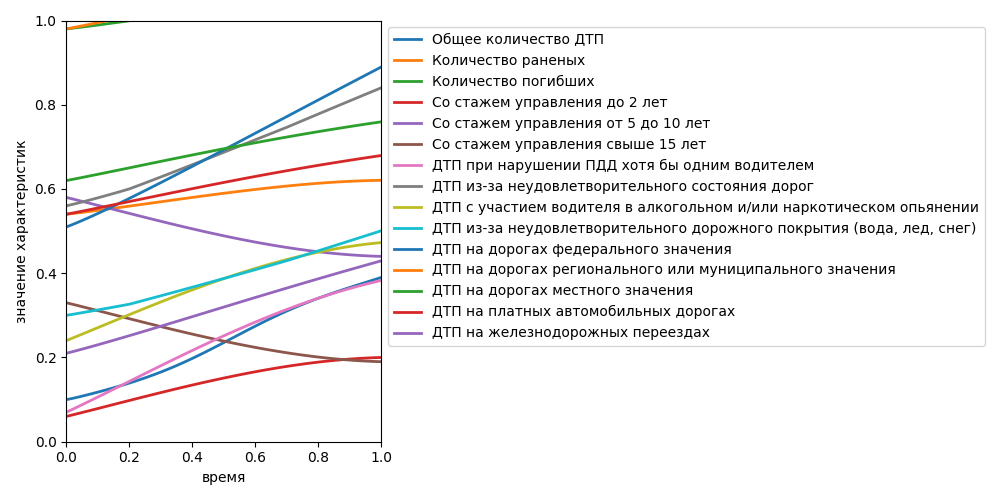
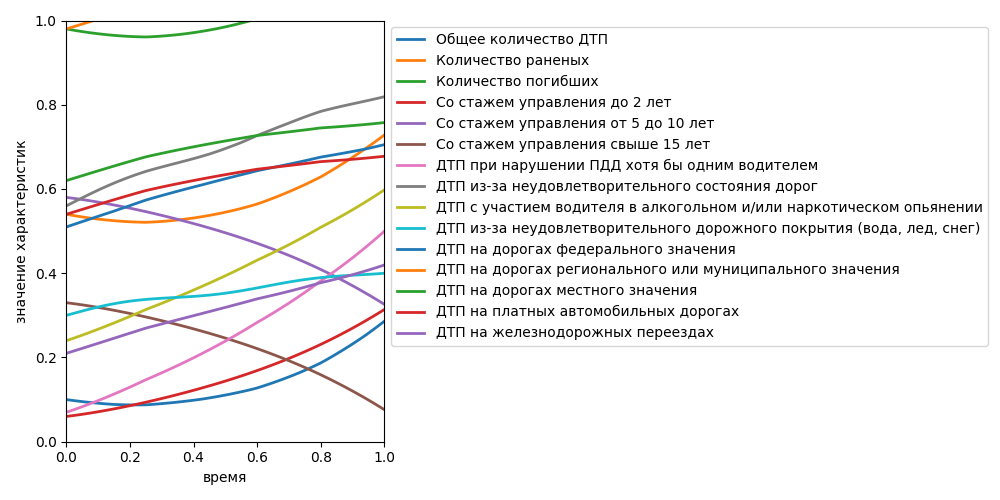
new faks

diff --git a/service.py b/service.py
@@ -169,44 +169,59 @@ def Q_tempalte(t, k):
 
 
 def fak1(t):
-    return -t ** 2 + 0.8
+    return 2 * t + 0.1
 
 
 def fak2(t):
-    return np.cos(1 * t) ** 2 / 2 + 0.1
+    res = np.where(t >= 0, 0.8, t)
+    res = np.where(t > 0.25, 0.6, res)
+    res = np.where(t > 0.6, 0.4, res)
+    res = np.where(t > 0.8, 0.15, res)
 
-
-def fak3(t):
-    res = np.where(t < 0, -1, t)
-    res = np.where(t > 1, -1, res)
-    res = np.where(t <= 1, 0.9, res)
-    res = np.where(t <= 0.7, 0.8, res)
-    res = np.where(t <= 0.2, 0.5, res)
     return res
 
+def fak3(t):
+    return np.cos(t * 10) / 3 + 0.35
 
 def fak4(t):
-    return np.cos(6 * t) * np.sin(3 * t) * 0.5 + 0.5
-
+    return  t / 3 + 0.3
 
 def fak5(t):
-    return np.sqrt(t) * 0.2 + 0.1
+    return np.cos(t * 5) / 6 + 0.2
 
 def fak6(t):
-    return np.sqrt(t) * 0.3 + 0.2
+    return np.exp(t) / 2 - 0.5
 
 def fak7(t):
-    return np.sqrt(t) * 0.5 - 0.4
+    res = np.where(t >= 0, 0.08, t)
+    res = np.where(t > 0.25, 0.17, res)
+    res = np.where(t > 0.45, 0.26, res)
+    res = np.where(t > 0.55, 0.38, res)
+    res = np.where(t > 0.70, 0.46, res)
+
+    return res
 
 def fak8(t):
-    return np.sqrt(t) ** 2 + 0.1
+    res = np.where(t >= 0, 0.05, t)
+    res = np.where(t > 0.15, 0.09, res)
+    res = np.where(t > 0.24, 0.15, res)
+    res = np.where(t > 0.60, 0.20, res)
+
+    return res
 
 def fak9(t):
-    return np.sqrt(t) ** 0.5 + 0.4
+    res = np.where(t >= 0, 0.1, t)
+    res = np.where(t > 0.15, 0.2, res)
+    res = np.where(t > 0.2, 0.24, res)
+    res = np.where(t > 0.43, 0.3, res)
+    res = np.where(t > 0.58, 0.34, res)
+    res = np.where(t > 0.73, 0.39, res)
+    res = np.where(t > 0.94, 0.5, res)
+
+    return res
 
 def fak10(t):
-    return np.sqrt(t) * 2 + 0.6
-
+    return 1 / (t + 1) - 0.2
 
 excel_file_path = 'tableKush.xlsx'
 

diff --git a/lab_ui.py b/lab_ui.py
@@ -429,7 +429,7 @@ class Ui_MainWindow(object):
         self.label_5.setText(_translate("MainWindow", "x5 - Со стажем управления\n от 5 до 10 лет"))
         self.label_6.setText(_translate("MainWindow", "x6 - Со стажем управления\n свыше 15 лет"))
         self.label_7.setText(_translate("MainWindow", "x7 - ДТП при нарушении ПДД хотя\n бы одним водителем"))
-        self.label_8.setText(_translate("MainWindow", "x8 - ДТП из-за \nнеудовлетворительного состояния дорог"))
+        self.label_8.setText(_translate("MainWindow", "x8 - ДТП из-за\nнеудовлетворительного\nсостояния дорог"))
         self.label_9.setText(_translate("MainWindow", "x9 - ДТП с участием водителя в \nалкогольном и/или \nнаркотическом опьянении"))
         self.label_10.setText(_translate("MainWindow", "x10 - ДТП из-за \nнеудовлетворительного дорожного \nпокрытия (вода, лед, снег)"))
         self.label_11.setText(_translate("MainWindow", "x11 - ДТП на дорогах \nфедерального значения"))
